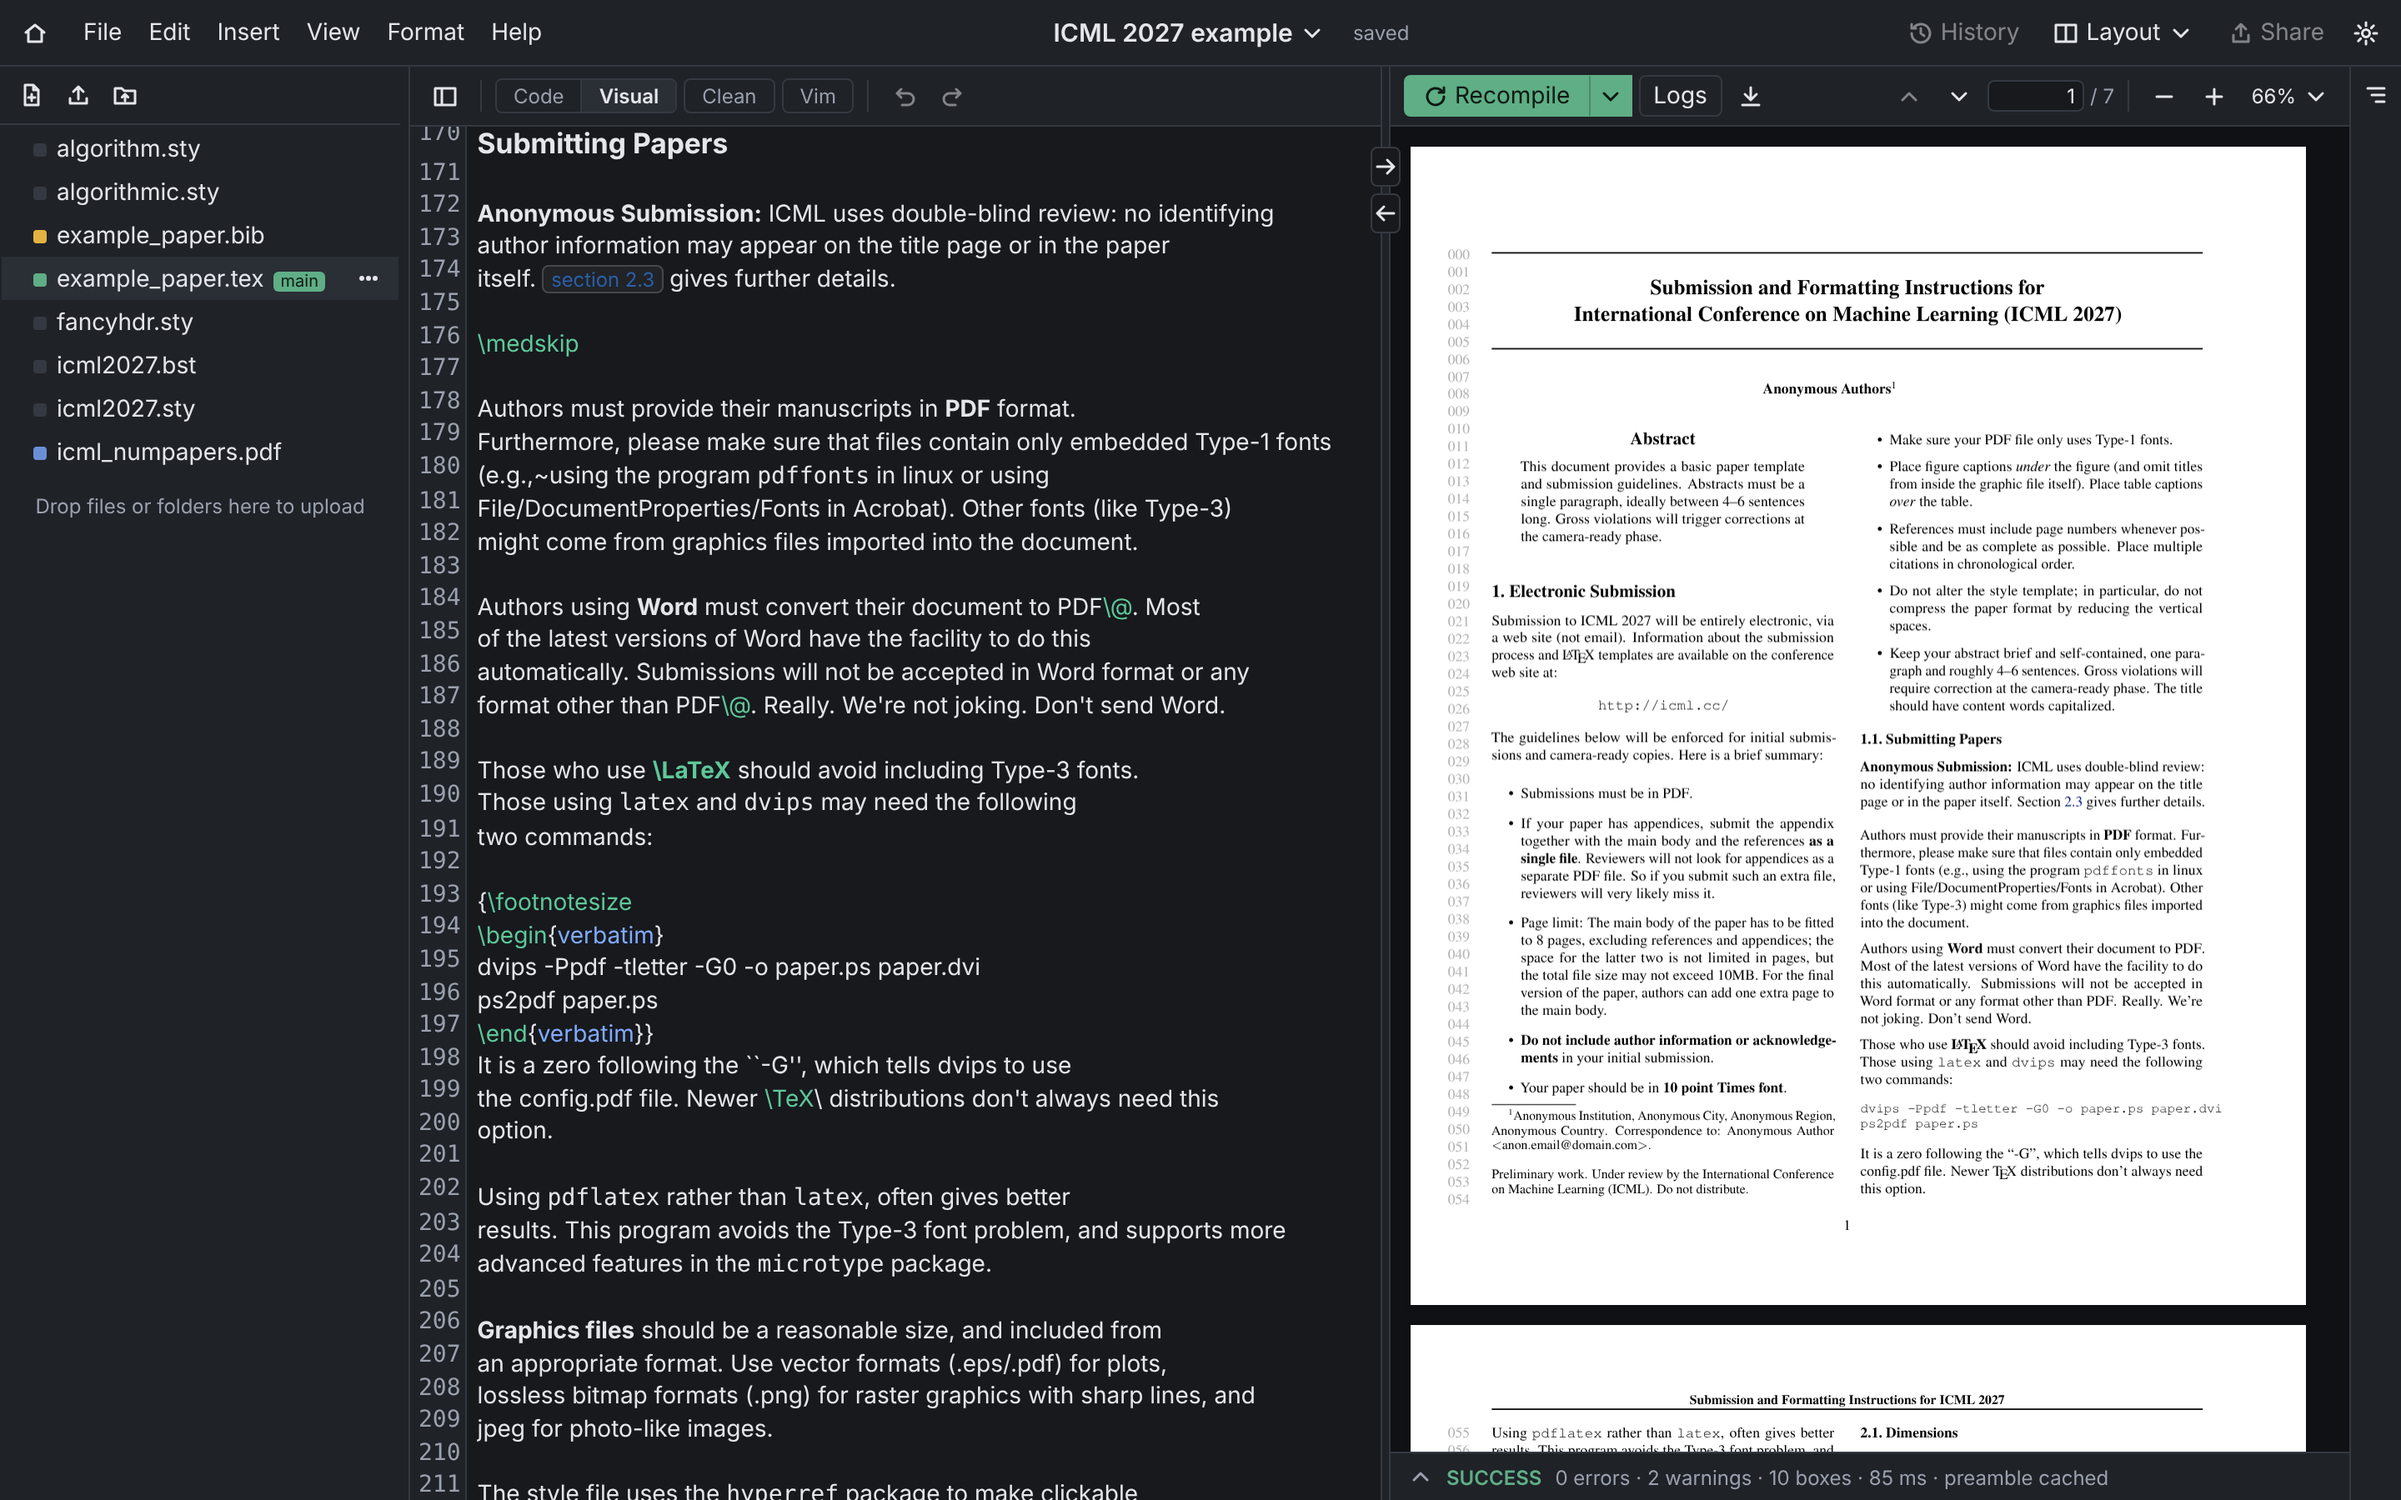
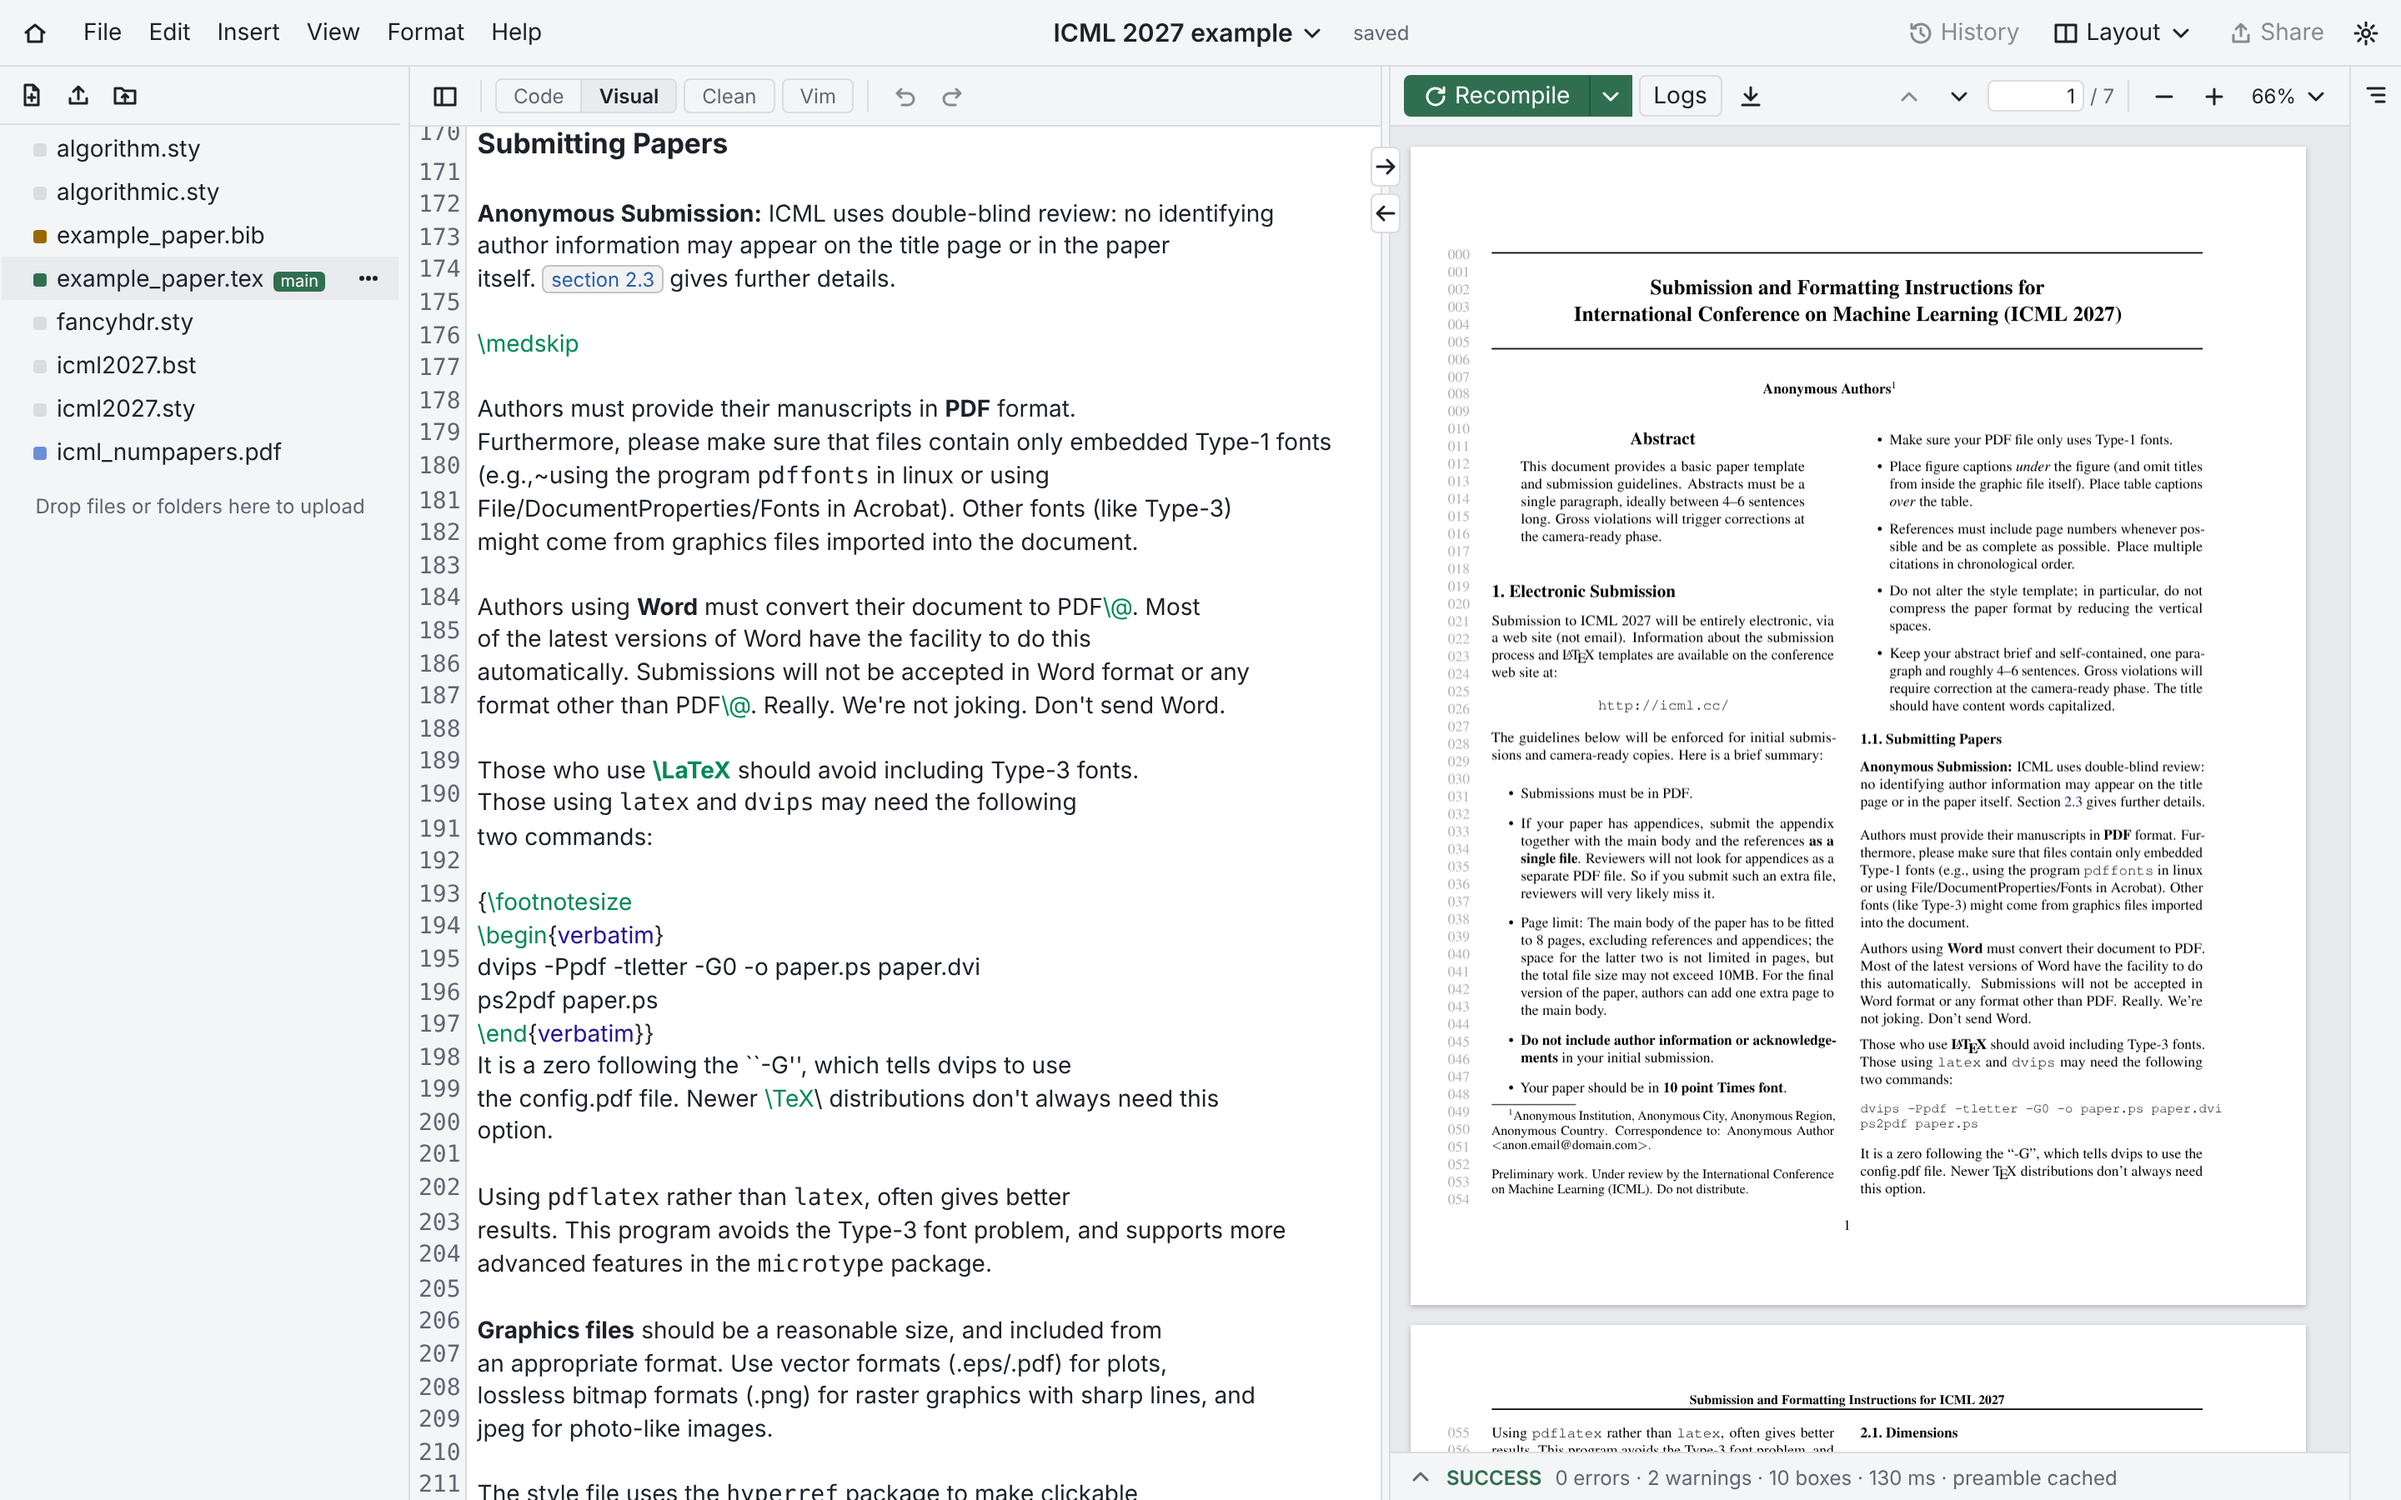
README: use a light-mode screenshot
Claude-Session: https://claude.ai/code/session_01Aj8Uq5uxVXyF6FwA9SBStU

diff --git a/README.md b/README.md
@@ -5,7 +5,7 @@ An open-source, self-hostable collaborative LaTeX editor.
 > **Early development.** MyLeaf runs as a single-user editor today;
 > collaboration (real-time sync, comments, suggestions) is on the roadmap.
 
-![MyLeaf in dark mode: the bundled ICML 2027 sample in Visual mode, next to its compiled PDF](docs/images/screenshot.png)
+![MyLeaf in light mode: the bundled ICML 2027 sample in Visual mode, next to its compiled PDF](docs/images/screenshot.png)
 
 ## Features
 
